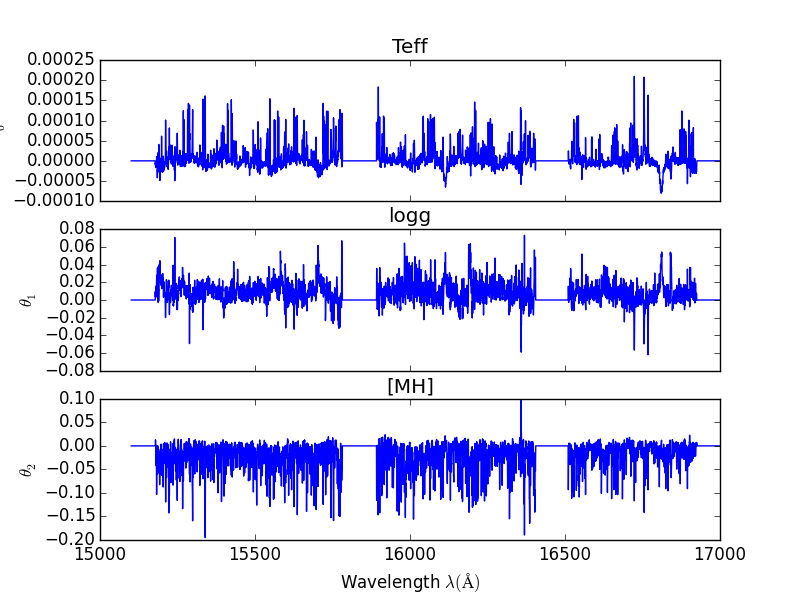
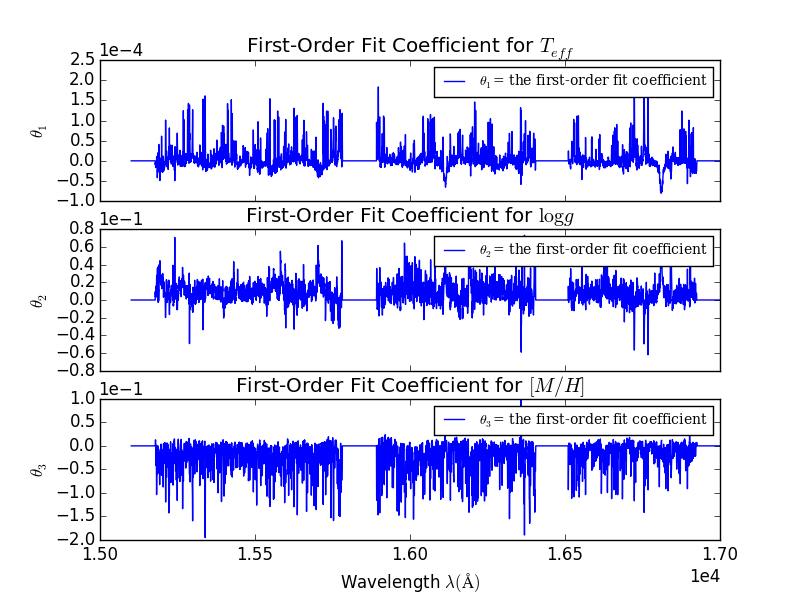
update sphinx

diff --git a/Code/Sphinx/_build/html/searchindex.js b/Code/Sphinx/_build/html/searchindex.js
@@ -1,1 +1,1 @@
-Search.setIndex({envversion:42,terms:{all:0,consider:0,spectrumfit:0,follow:0,row:0,fluxerr:[],accur:0,depend:0,under:0,sourc:[],everi:0,string:0,calib:0,govern:0,veri:[],modeltyp:[],list:0,item:[],overlaid:0,read_label:[],zero:[],append:0,spectral:0,index:[],compar:0,section:0,brief:0,version:0,method:[],gener:[],coeffici:0,len:0,let:0,along:0,valu:0,search:[],survei:0,reference_set:0,label_v:0,precis:0,pick:[],reference_label:0,nstar:[],dtype:0,modul:[],filenam:0,txt:0,select:0,plot:0,fed:[],from:[],describ:0,would:0,chi:0,two:0,coverag:0,few:[],call:0,type:[],more:0,sort:0,loadtxt:0,desir:0,cannon_spectra:[],apoge:[],flag:0,train:[],examin:0,particular:[],known:0,hold:0,unpack:0,must:0,none:[],retriev:0,err:[],vesta_trainingset:[],prepar:[],work:[],remain:0,can:0,objectid:[],process:0,high:0,critic:0,want:[],multipl:[],divid:[],globular:0,write:[],how:0,annaho:0,updat:0,snr:0,mai:[],varianc:[],associ:0,physic:0,spectra:[],correspond:0,element:0,inform:0,cluster_trainingset:[],first:0,ordinarili:0,help:[],over:0,through:0,flexibl:0,paramet:0,fit:[],vast:0,comprehens:0,therefor:[],might:[],pixel:0,"float":0,"return":0,initi:0,"break":0,now:0,cannonlabel:[],name:0,continuum_norm:[],each:0,found:0,mean:0,subset:0,logg:0,expect:[],our:0,happen:0,extract:[],out:0,simplic:0,shown:[],space:0,open:0,content:[],label_nam:0,print:0,correct:0,workflow:[],logg_cut:0,standard:[],reason:0,put:0,sampl:0,her:[],keep:0,thing:0,length:[],dr10:0,outsid:0,principl:[],lambda:0,softwar:[],rang:0,render:[],onc:0,arrai:[],qualiti:0,all_label_nam:0,test_set_diagnost:[],alreadi:[],choose_label:[],label_vector:[],size:[],given:0,necessarili:[],"final":0,option:0,specifi:[],herself:[],kind:[],provid:0,remov:0,second:0,structur:0,spectralmodel:[],randomli:0,spectrum:0,packag:0,have:0,test_set:0,model_diagnost:[],also:0,exampl:0,which:0,distribut:0,normal:0,object:[],traininglabel:[],set_label_valu:[],segment:[],hereaft:[],later:[],dof:0,order:0,determin:0,sigma:0,chebyshev:0,mergeset:[],show:0,text:0,labelv:[],involv:[],onli:0,locat:0,nois:0,diff_t:0,should:0,training_set:[],tailor:[],train_model:[],him:[],requir:0,continuum:0,"public":[],bad:[],contain:0,where:0,autocorrel:0,set:[],annacannon:0,frame:[],see:0,result:[],best:[],testset:[],normalized_spectra:0,enough:0,"import":0,awai:0,approach:0,here:0,solv:0,come:[],both:0,infer_label:[],cov:0,against:0,get_spectra:[],col:0,simpli:0,overview:[],"2nd":[],residu:0,suppli:[],assum:0,prep_data:[],usecol:0,dub:0,numpi:0,been:0,basic:[],apogee_data:0,photon:[],ani:0,togeth:0,trainingset:[],those:0,"case":0,ident:0,look:0,fts_trainingset:[],abov:0,readin:0,cluster:0,good:0,ascii:0,perform:0,same:0,check:0,infer:[],assembl:[],ness:0,user:0,get_training_label:[],stack:0,squar:0,entri:0,thu:0,well:0,without:0,thi:0,choos:0,model:[],left:[],abund:0,rest:[],shape:[],via:[],systemat:0,ntrainingstar:[],except:0,spread:[],all_label_valu:0,densiti:[],input:0,teff_corr:0,applic:0,format:0,read:[],npixel:0,grid:[],like:0,success:0,specif:0,flux:0,either:[],continua:0,output:0,page:[],teff:0,some:0,logical_and:0,diff_t_cut:0,home:0,constitut:0,cannon_set:0,lead:0,fidel:0,colmask:[],cannon_label:[],notabl:[],refer:[],run:0,usag:0,step:[],impos:0,numtrainingstar:[],incorpor:0,column:0,filenames1:0,cutoff:0,own:[],choose_spectra:[],within:[],dataset:[],merg:[],accordingli:[],triangl:0,mcm_rotat:[],wai:[],transfer:0,reli:[],includ:0,"function":0,form:0,training_set_diagnost:[],histogram:0,labelnam:[],delta:0,line:[],"true":0,info:0,consist:0,read_apoge:[],whether:0,below:0,fundament:0,otherwis:0,similar:[],featur:[],creat:[],smoothli:0,diagnost:[],deem:0,exist:[],file:[],wavelength:0,label_valu:[],probabl:[],spectral_model:0,allow:0,detail:0,aspcap:[],other:0,bool:[],nlabel:0,test:[],you:[],baselin:0,draw:0,star:0,"0th":0,ndarrai:[],polynomi:0,gap:[],reduc:0,directori:0,mask:0},objtypes:{},objnames:{},filenames:["index"],titles:["<em>The Cannon</em>: Data-Driven Stellar Labels"],objects:{},titleterms:{softwar:0,thecannon:[],creat:0,draw_spectra:0,api:[],overview:0,indic:[],dataset:0,test_set_diagnost:0,read_apoge:[],set:0,choose_label:0,file:0,tabl:[],prepdata:[],from:0,welcom:[],fit:[],data:0,choose_spectra:0,model_diagnost:0,construct:0,label:0,start:[],read_label:[],test:0,document:[],infer:[],refer:0,get:[],cannon_spectra:[],cannon:0,gener:[],object:0,apoge:0,stellar:0,step:0,tailor:0,reference_set_diagnost:0,train_model:0,infer_label:0,cannon2_infer_label:[],get_training_label:[],introduct:0,driven:0,training_set_diagnost:[],word:[],diagnost:0,read:0,prepar:[],spectra:0,get_reference_label:0,method:[],get_spectra:0,train:0,cannon1_train_model:[],model:0}})
+Search.setIndex({envversion:42,terms:{all:0,consider:0,spectrumfit:0,follow:0,row:0,fluxerr:[],accur:0,depend:0,under:0,sourc:[],everi:0,string:0,calib:0,govern:0,veri:[],modeltyp:[],list:0,item:[],overlaid:0,read_label:[],zero:[],append:0,spectral:0,index:[],compar:0,section:0,brief:0,version:0,method:[],gener:[],coeffici:0,len:0,let:0,along:0,valu:0,search:[],survei:0,reference_set:0,label_v:0,precis:0,pick:[],reference_label:0,nstar:[],dtype:0,modul:[],filenam:0,txt:0,select:0,plot:0,fed:[],from:[],describ:0,would:0,chi:0,two:0,coverag:[],few:[],call:0,type:[],more:0,sort:0,loadtxt:0,desir:0,cannon_spectra:[],apoge:[],flag:0,train:[],examin:0,particular:[],known:0,hold:0,unpack:0,must:0,none:[],retriev:0,err:[],vesta_trainingset:[],prepar:[],work:[],remain:0,can:0,objectid:[],process:0,high:0,critic:0,want:[],multipl:[],divid:[],globular:0,write:[],how:0,annaho:0,updat:0,snr:0,mai:[],varianc:[],associ:0,physic:0,overplot:0,spectra:[],correspond:0,element:0,inform:0,cluster_trainingset:[],first:0,ordinarili:0,help:[],over:0,through:0,flexibl:0,paramet:0,fit:[],vast:0,comprehens:0,therefor:[],might:[],pixel:0,"float":0,"return":0,initi:0,"break":0,now:0,cannonlabel:[],name:0,continuum_norm:[],each:0,found:0,mean:0,subset:0,logg:0,expect:[],our:0,happen:0,extract:[],out:0,simplic:0,shown:[],space:[],open:0,content:[],label_nam:0,print:0,correct:0,workflow:[],logg_cut:0,standard:[],reason:0,put:0,her:[],keep:0,thing:0,length:[],dr10:0,outsid:0,principl:[],lambda:0,softwar:[],rang:0,render:[],onc:0,arrai:[],qualiti:0,all_label_nam:0,test_set_diagnost:[],alreadi:[],choose_label:[],label_vector:[],size:[],given:0,necessarili:[],"final":0,option:0,specifi:[],herself:[],kind:[],provid:0,remov:0,second:0,structur:0,spectralmodel:[],randomli:0,spectrum:0,packag:0,have:0,test_set:0,model_diagnost:[],also:0,exampl:0,which:0,distribut:0,normal:0,object:[],traininglabel:[],set_label_valu:[],segment:[],training_set_diagnost:[],later:[],dof:0,order:0,determin:0,sigma:0,chebyshev:0,mergeset:[],show:0,text:0,labelv:[],involv:[],onli:0,locat:0,nois:0,diff_t:0,should:0,training_set:[],tailor:[],train_model:[],him:[],requir:0,continuum:0,"public":[],bad:[],contain:0,where:0,autocorrel:0,set:[],annacannon:0,frame:[],see:0,result:[],best:[],testset:[],normalized_spectra:0,enough:0,"import":0,awai:0,approach:0,here:0,solv:0,come:[],both:0,infer_label:[],cov:0,against:0,get_spectra:[],col:0,simpli:0,overview:[],"2nd":[],residu:0,logical_and:0,suppli:[],assum:0,prep_data:[],usecol:0,dub:0,numpi:0,been:0,basic:[],apogee_data:0,photon:[],ani:0,togeth:0,trainingset:[],those:0,"case":0,ident:0,look:0,fts_trainingset:[],abov:0,readin:0,cluster:0,good:0,ascii:0,perform:0,same:0,check:0,infer:[],assembl:[],ness:0,user:0,get_training_label:[],stack:0,squar:0,entri:0,thu:0,well:0,without:0,thi:0,choos:0,model:[],left:[],abund:0,rest:[],shape:[],via:[],systemat:0,ntrainingstar:[],except:0,spread:[],all_label_valu:0,densiti:[],input:0,teff_corr:0,applic:0,format:0,read:[],npixel:0,grid:[],like:0,success:0,specif:0,flux:0,either:[],continua:0,output:0,page:[],teff:0,some:0,sampl:0,diff_t_cut:0,home:0,constitut:0,cannon_set:0,lead:0,fidel:0,colmask:[],cannon_label:[],notabl:[],refer:[],run:0,usag:0,step:[],impos:0,numtrainingstar:[],incorpor:0,column:0,filenames1:0,cutoff:0,own:[],choose_spectra:[],within:[],dataset:[],merg:[],accordingli:[],triangl:0,mcm_rotat:[],wai:[],transfer:0,reli:[],includ:0,"function":0,form:0,hereaft:[],histogram:0,labelnam:[],delta:0,line:[],"true":0,info:0,consist:0,read_apoge:[],whether:0,below:0,fundament:0,otherwis:0,similar:[],featur:[],creat:[],smoothli:0,diagnost:[],deem:0,exist:[],file:[],wavelength:0,label_valu:[],probabl:[],spectral_model:0,allow:0,detail:0,aspcap:[],other:0,bool:[],nlabel:0,test:[],you:[],baselin:0,draw:0,star:0,"0th":0,ndarrai:[],polynomi:0,gap:[],reduc:0,directori:0,mask:0},objtypes:{},objnames:{},filenames:["index"],titles:["<em>The Cannon</em>: Data-Driven Stellar Labels"],objects:{},titleterms:{softwar:0,thecannon:[],creat:0,draw_spectra:0,api:[],overview:0,indic:[],dataset:0,test_set_diagnost:0,read_apoge:[],set:0,choose_label:0,file:0,tabl:[],prepdata:[],from:0,welcom:[],fit:[],data:0,choose_spectra:0,model_diagnost:0,construct:0,label:0,start:[],read_label:[],test:0,document:[],infer:[],refer:0,get:[],cannon_spectra:[],cannon:0,gener:[],object:0,apoge:0,stellar:0,step:0,train:0,reference_set_diagnost:0,train_model:0,infer_label:0,cannon2_infer_label:[],get_training_label:[],introduct:0,driven:0,training_set_diagnost:[],word:[],diagnost:0,read:0,prepar:[],spectra:0,get_reference_label:0,method:[],get_spectra:0,tailor:0,cannon1_train_model:[],model:0}})

diff --git a/Code/Sphinx/_build/html/index.html b/Code/Sphinx/_build/html/index.html
@@ -212,12 +212,12 @@ diagnostics.</p>
 </pre></div>
 </div>
 <p>The output of these diagnostics, with examples, are listed below.</p>
-<p>1.1) A histogram showing the distribution of SNR in the reference set</p>
-<a class="reference internal image-reference" href="_images/referenceset_SNRdist.png"><img alt="_images/referenceset_SNRdist.png" src="_images/referenceset_SNRdist.png" style="width: 400pt;" /></a>
-<p>1.2) A histogram for each label showing its coverage in label space</p>
-<a class="reference internal image-reference" href="_images/referenceset_labeldist_Teff.png"><img alt="_images/referenceset_labeldist_Teff.png" src="_images/referenceset_labeldist_Teff.png" style="width: 400pt;" /></a>
-<p>1.3) A &#8220;triangle plot&#8221; that shows every label plotted against every other</p>
-<a class="reference internal image-reference" href="_images/referenceset_labels_triangle.png"><img alt="_images/referenceset_labels_triangle.png" src="_images/referenceset_labels_triangle.png" style="width: 400pt;" /></a>
+<p>1.1) A histogram showing the distribution of SNR in the reference set overplotted
+with the distribution of SNR in the test set.</p>
+<img alt="_images/SNRdist.png" src="_images/SNRdist.png" />
+<p>1.2) A &#8220;triangle plot&#8221; that shows the distribution of every label as well as
+every label plotted against every other</p>
+<img alt="_images/reference_labels_triangle.png" src="_images/reference_labels_triangle.png" />
 </div>
 </div>
 <div class="section" id="step-2-construct-a-set-of-test-objects-from-apogee-files">
@@ -248,12 +248,12 @@ print out a set of model diagnostics.</p>
 <p>The output of these diagnostics with sample plots are listed below.</p>
 <p>3.1) Plot of the baseline spectrum (0th order coefficients) as a
 function of wavelength.</p>
-<a class="reference internal image-reference" href="_images/baseline_spec_with_cont_pix.png"><img alt="_images/baseline_spec_with_cont_pix.png" src="_images/baseline_spec_with_cont_pix.png" style="width: 400pt;" /></a>
+<img alt="_images/baseline_spec_with_cont_pix.png" src="_images/baseline_spec_with_cont_pix.png" />
 <p>3.2) Plot the leading coefficients of each label as a function of wavelength</p>
-<a class="reference internal image-reference" href="_images/leading_coeffs.png"><img alt="_images/leading_coeffs.png" src="_images/leading_coeffs.png" style="width: 400pt;" /></a>
+<img alt="_images/leading_coeffs.png" src="_images/leading_coeffs.png" />
 <p>3.3) Histogram of the reduced chi squareds of the fits (normalized by DOF,
 where DOF = npixels-nlabels)</p>
-<a class="reference internal image-reference" href="_images/modelfit_redchisqs.png"><img alt="_images/modelfit_redchisqs.png" src="_images/modelfit_redchisqs.png" style="width: 400pt;" /></a>
+<img alt="_images/modelfit_redchisqs.png" src="_images/modelfit_redchisqs.png" />
 </div>
 <div class="section" id="step-4-the-cannon-s-test-step-infer-labels-test-set-diagnostics">
 <h3>Step 4: <em>The Cannon</em>&#8216;s Test Step (<tt class="docutils literal"><span class="pre">infer_labels</span></tt>, <tt class="docutils literal"><span class="pre">test_set_diagnostics</span></tt>)<a class="headerlink" href="#step-4-the-cannon-s-test-step-infer-labels-test-set-diagnostics" title="Permalink to this headline">¶</a></h3>
@@ -273,11 +273,11 @@ print out a set of test set diagnostics.</p>
 <p>4.1) For each label, a list of flagged stars for which test labels are
 over 2-sigma away from reference labels</p>
 <p>4.2) Triangle plot, each test label plotted against every other test label</p>
-<a class="reference internal image-reference" href="_images/testset_labels_triangle.png"><img alt="_images/testset_labels_triangle.png" src="_images/testset_labels_triangle.png" style="width: 400pt;" /></a>
+<img alt="_images/survey_labels_triangle.png" src="_images/survey_labels_triangle.png" />
 <p>4.3) 1-1 plots, for each label, reference values plotted against test values</p>
-<a class="reference internal image-reference" href="_images/1to1_labelTeff.png"><img alt="_images/1to1_labelTeff.png" src="_images/1to1_labelTeff.png" style="width: 300pt;" /></a>
-<a class="reference internal image-reference" href="_images/1to1_labellogg.png"><img alt="_images/1to1_labellogg.png" src="_images/1to1_labellogg.png" style="width: 300pt;" /></a>
-<a class="reference internal image-reference" href="_images/1to1_label[MH].png"><img alt="_images/1to1_label[MH].png" src="_images/1to1_label[MH].png" style="width: 300pt;" /></a>
+<a class="reference internal image-reference" href="_images/1to1_label_0.png"><img alt="_images/1to1_label_0.png" src="_images/1to1_label_0.png" style="width: 300pt;" /></a>
+<a class="reference internal image-reference" href="_images/1to1_label_1.png"><img alt="_images/1to1_label_1.png" src="_images/1to1_label_1.png" style="width: 300pt;" /></a>
+<a class="reference internal image-reference" href="_images/1to1_label_2.png"><img alt="_images/1to1_label_2.png" src="_images/1to1_label_2.png" style="width: 300pt;" /></a>
 </div>
 <div class="section" id="step-5-model-spectra-draw-spectra-diagnostics">
 <h3>Step 5: Model Spectra (<tt class="docutils literal"><span class="pre">draw_spectra</span></tt>, <tt class="docutils literal"><span class="pre">diagnostics</span></tt>)<a class="headerlink" href="#step-5-model-spectra-draw-spectra-diagnostics" title="Permalink to this headline">¶</a></h3>

diff --git a/Code/Version1.2/cannon1_train_model.py b/Code/Version1.2/cannon1_train_model.py
@@ -169,20 +169,26 @@ def model_diagnostics(reference_set, model):
     plt.xlabel(r"Wavelength $\lambda (\AA)$")
     plt.xlim(min(lambdas), max(lambdas))
     ax = axarr[0]
-    ax.plot(lambdas, baseline_spec)
+    ax.plot(lambdas, baseline_spec,
+            label=r'$\theta_0$' + "= the leading fit coefficient")
     contpix_lambda = list(np.loadtxt("pixtest4_lambda.txt", 
         usecols = (0,), unpack =1))
     y = [1]*len(contpix_lambda)
-    ax.scatter(contpix_lambda, y, s=1)
+    ax.scatter(contpix_lambda, y, s=1,
+            label="continuum pixels")
+    ax.legend(loc='lower right', prop={'family':'serif', 'size':'small'})
     ax.set_title("Baseline Spectrum with Continuum Pixels")
-    ax.set_ylabel(r'$\theta_0$' + ", the leading fit coefficient")
+    ax.set_ylabel(r'$\theta_0$')
     ax = axarr[1]
-    ax.plot(lambdas, baseline_spec)
+    ax.plot(lambdas, baseline_spec, 
+            label=r'$\theta_0$' + "= the leading fit coefficient")
     contpix_lambda = list(np.loadtxt("pixtest4_lambda.txt", 
         usecols = (0,), unpack =1))
-    ax.scatter(contpix_lambda, y, s=1)
+    ax.scatter(contpix_lambda, y, s=1,
+            label="continuum pixels")
     ax.set_title("Baseline Spectrum with Continuum Pixels, Zoomed")
-    ax.set_ylabel(r'$\theta_0$' + ", the leading fit coefficient")
+    ax.legend(loc='upper right', prop={'family':'serif', 'size':'small'})
+    ax.set_ylabel(r'$\theta_0$')
     ax.set_ylim(0.95, 1.05)
 
     filename = "baseline_spec_with_cont_pix.png"
@@ -198,10 +204,12 @@ def model_diagnostics(reference_set, model):
     plt.ticklabel_format(style='sci', axis='x', scilimits=(0,0))
     for i in range(nlabels):
         ax = axarr[i]
-        ax.set_ylabel(r"$\theta_%s$" %(i+1) + ", first-order fit coefficient")
+        ax.set_ylabel(r"$\theta_%s$" %(i+1))
         ax.ticklabel_format(style='sci', axis='y', scilimits=(0,0))
         ax.set_title("First-Order Fit Coefficient for "+r"$%s$"%label_names[i])
-        ax.plot(lambdas, coeffs_all[:,i+1])
+        ax.plot(lambdas, coeffs_all[:,i+1], 
+                label=r'$\theta_%s$' %(i+1)+"= the first-order fit coefficient")
+        ax.legend(loc='upper right', prop={'family':'serif', 'size':'small'})
     print "Diagnostic plot: leading coefficients as a function of wavelength."
     filename = "leading_coeffs.png"
     print "Saved as %s" %filename

diff --git a/Code/Sphinx/index.rst b/Code/Sphinx/index.rst
@@ -179,20 +179,15 @@ diagnostics.
 
 The output of these diagnostics, with examples, are listed below.
 
-1.1) A histogram showing the distribution of SNR in the reference set
+1.1) A histogram showing the distribution of SNR in the reference set overplotted
+with the distribution of SNR in the test set.
 
-.. image:: referenceset_SNRdist.png
-    :width: 400pt
+.. image:: SNRdist.png
 
-1.2) A histogram for each label showing its coverage in label space
+1.2) A "triangle plot" that shows the distribution of every label as well as 
+every label plotted against every other 
 
-.. image:: referenceset_labeldist_Teff.png
-    :width: 400pt
-   
-1.3) A "triangle plot" that shows every label plotted against every other 
-
-.. image:: referenceset_labels_triangle.png
-    :width: 400pt
+.. image:: reference_labels_triangle.png
    
 Step 2: Construct a set of test objects from APOGEE files
 ----------------------------------------------------------
@@ -226,18 +221,15 @@ The output of these diagnostics with sample plots are listed below.
 function of wavelength.
 
 .. image:: baseline_spec_with_cont_pix.png
-    :width: 400pt
 
 3.2) Plot the leading coefficients of each label as a function of wavelength
 
 .. image:: leading_coeffs.png
-    :width: 400pt
 
 3.3) Histogram of the reduced chi squareds of the fits (normalized by DOF, 
 where DOF = npixels-nlabels)
 
 .. image:: modelfit_redchisqs.png
-    :width: 400pt
 
 Step 4: *The Cannon*'s Test Step (``infer_labels``, ``test_set_diagnostics``)
 -----------------------------------------------------------------------------
@@ -261,18 +253,17 @@ over 2-sigma away from reference labels
 
 4.2) Triangle plot, each test label plotted against every other test label
 
-.. image:: testset_labels_triangle.png
-    :width: 400pt
+.. image:: survey_labels_triangle.png
 
 4.3) 1-1 plots, for each label, reference values plotted against test values
 
-.. image:: 1to1_labelTeff.png
+.. image:: 1to1_label_0.png
     :width: 300pt
 
-.. image:: 1to1_labellogg.png
+.. image:: 1to1_label_1.png
     :width: 300pt
 
-.. image:: 1to1_label[MH].png
+.. image:: 1to1_label_2.png
     :width: 300pt
 
 Step 5: Model Spectra (``draw_spectra``, ``diagnostics``)
